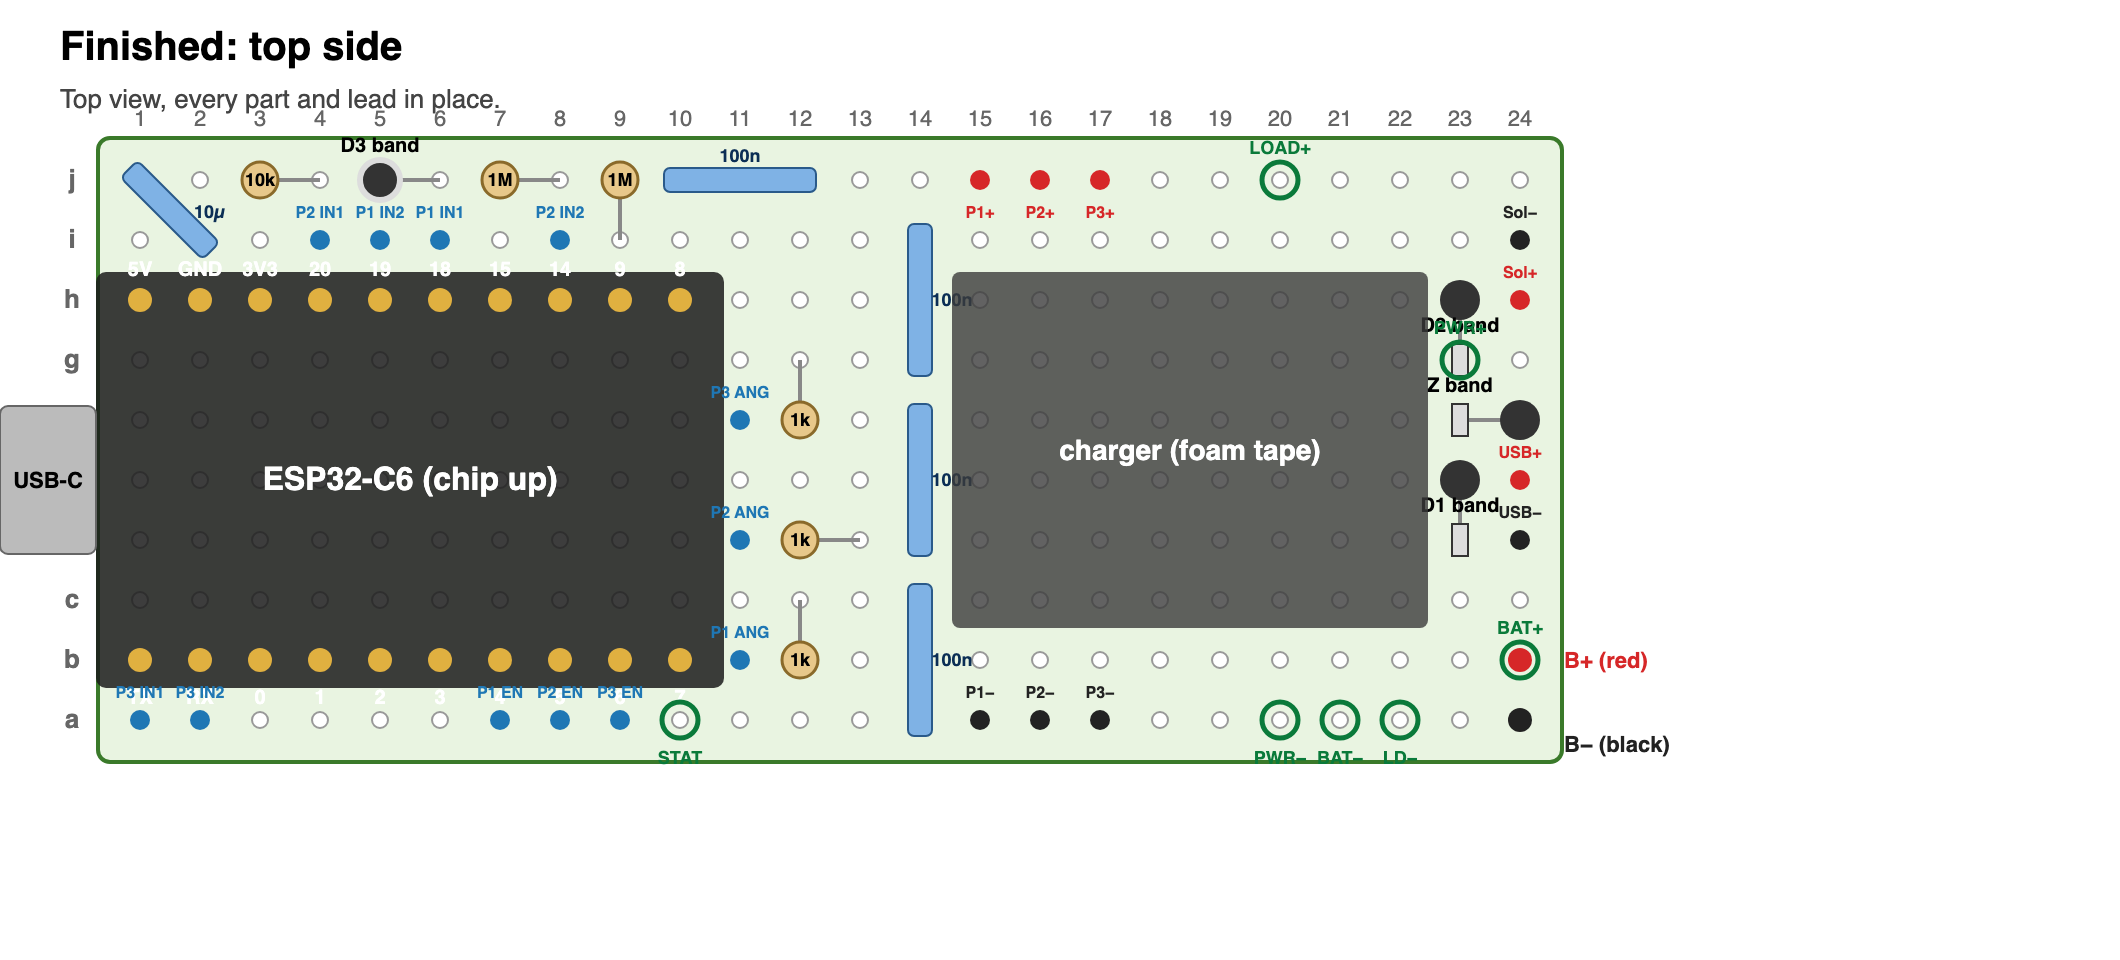
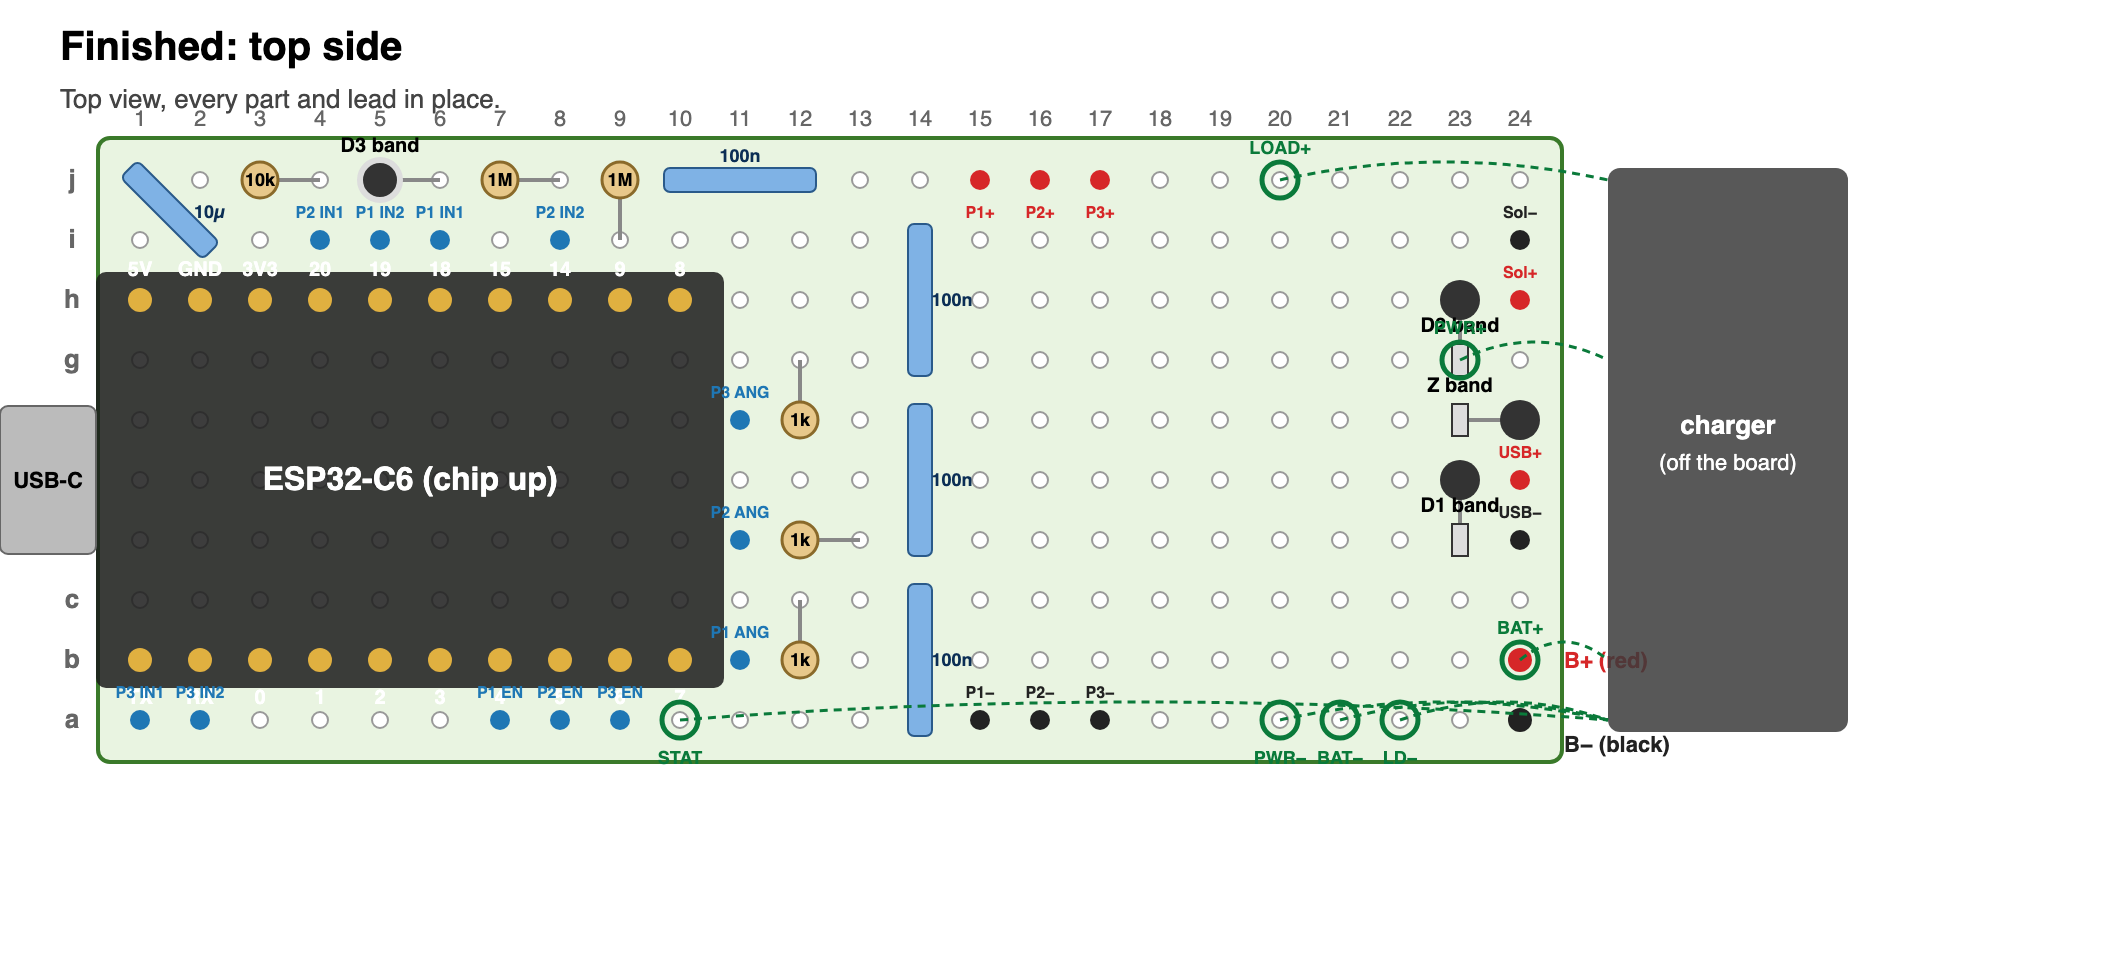
Dev board: charger moves off the board
The charger board is 30.5 x 31.5 mm (wider than the 25.4 mm perfboard) with a
16 x 26 mm bulk capacitor, so it sits beside the row-24 end on short wires. Same
landing holes, so the board wiring is unchanged; power pads use 22 AWG pairs.

Changed region(s): [[0.4358, 0.2812, 0.6849, 0.6562], [0.6226, 0.1562, 0.8717, 0.7812]]

diff --git a/tools/devboard_guide.py b/tools/devboard_guide.py
@@ -188,14 +188,18 @@ def charger_pads():
 
 
 def draw_charger(o):
-    cx0, cy0 = pos('c15')
-    cx1, cy1 = pos('h22')
-    o.append('<rect x="%.0f" y="%.0f" width="%.0f" height="%.0f" rx="4" fill="#3b3b3b" opacity="0.8"/>' % (
-        cx0 - 14, cy1 - 14, cx1 - cx0 + 28, cy0 - cy1 + 28))
-    o.append('<text x="%.0f" y="%.0f" font-size="14" fill="#fff" text-anchor="middle" font-weight="bold">charger (foam tape)</text>' % (
-        (cx0 + cx1) / 2, (cy0 + cy1) / 2 + 5))
+    """The charger sits off the board, past the row-24 end; its wires come in to the ringed holes."""
+    x0, _ = pos('a24')
+    _, ya = pos('a1')
+    _, yj = pos('j1')
+    o.append('<rect x="%.0f" y="%.0f" width="120" height="%.0f" rx="6" fill="#3b3b3b" opacity="0.85"/>' % (x0 + 44, yj - 6, ya - yj + 12))
+    o.append('<text x="%.0f" y="%.0f" font-size="13" fill="#fff" text-anchor="middle" font-weight="bold">charger</text>' % (x0 + 104, (ya + yj) / 2 - 8))
+    o.append('<text x="%.0f" y="%.0f" font-size="11" fill="#fff" text-anchor="middle">(off the board)</text>' % (x0 + 104, (ya + yj) / 2 + 10))
     for h, lab in charger_pads():
+        x, y = pos(h)
         ring(o, h, '#0a7a3a')
+        o.append('<path d="M%.0f %.0f Q%.0f %.0f %.0f %.0f" fill="none" stroke="#0a7a3a" stroke-width="1.5" stroke-dasharray="4,3"/>' % (
+            x, y, (x + x0 + 44) / 2, y - 18, x0 + 44, y))
         label(o, h, lab, dy=22 if h[0] == 'a' else -13, color='#0a7a3a', size=9)
 
 
@@ -329,15 +333,21 @@ step('batt', 'Battery pins (2 header pins)', 'top', [draw_batt],
      ['Mark b24 with a red "+" now: the red wire of the battery plug always goes on b24.'],
      """Snap 2 pins off a header strip and solder them in **a24 (−)** and **b24 (+)**, long side up. Mark **b24 "+"** in red.""",
      [('Battery pins', 'a24 (−), b24 (+)', 'red wire of the plug on b24')])
-step('charger', 'Charger: prepare, mount, wire its pads (7 wires)', 'top', [draw_charger],
-     'Top side. Charger on foam tape over c15–h22; short insulated wires from its pads into the ringed holes.',
+step('charger', 'Charger: prepare it, wire it in from off the board (7 wires)', 'top', [draw_charger],
+     'Top side. The charger (30.5 × 31.5 mm) sits OFF the board, past row 24; its wires come in to the ringed holes.',
      ['Where a hole already has a pin (b24, a10), push the wire in beside it or solder it to that pin underneath.'],
-     """1. On the bench first: remove the charger's fixed THERM resistor and solder the 10 kΩ NTC's two leads there (the NTC
-   gets taped to the cell later). If the charger came with a loose bulk capacitor, solder it across its LOAD pads
-   (**long leg / + to LOAD +**, stripe / − to LOAD −). Tin the pads.
-2. Stick it on with foam tape over **c15–h22**.
-3. Cut 7 short pieces of 30 AWG wire, strip ~3 mm, solder one end to each pad and push the other end through its hole
-   from the top. Solder them underneath.
+     """The charger board (30.5 × 31.5 mm) is wider than the perfboard, and its bulk capacitor is 16 mm across and 26 mm tall,
+so it sits **off the board**, beside the row-24 end, on wires about 6–8 cm long.
+
+1. On the bench first: remove the charger's fixed THERM resistor and solder the 10 kΩ NTC's two leads there (the NTC
+   gets taped to the cell later). Solder the bulk capacitor across its LOAD pads (**long leg / + to LOAD +**,
+   stripe / − to LOAD −). To make it lie on its side, bend both leads 90° about 2 mm from the body (hold the lead with
+   pliers at the body so the bend doesn't strain it). Tin the pads.
+2. **Power wires (they carry the battery and motor current): 3 pairs of the white 22 AWG two-conductor wire.**
+   PWR + / PWR −, BATT + / BATT −, LOAD + / LOAD −. Solder each pair to its two pads, then the other ends into the
+   holes in the table from the top. Keep + and − straight: mark the + conductor with a marker before you start.
+3. **STAT: one 30 AWG wire** from the STAT pad (STAT1 if there are two) to a10.
+4. Solder all 7 underneath. Nothing else goes in these holes except where noted.
 
 (Pad names assumed from the Adafruit-style board: check them against the real board before wiring.)""",
      [(pad, h, net) for pad, h, net in M.CHARGER])
@@ -452,14 +462,14 @@ def bom():
         ('Zener 6.2 V', 1, '3', 'zener kit'),
         ('Ceramic capacitor 100 nF (104)', count['100n'], '4', 'ceramic capacitor kit'),
         ('Ceramic capacitor 10 µF (106)', count['10µ'], '4', 'ceramic capacitor kit'),
-        ('MCP73871 charger board (+ its bulk capacitor)', 1, '6', 'Comimark MCP73871'),
+        ('MCP73871 charger board, 30.5 × 31.5 mm, off the board (+ its 16 × 26 mm bulk capacitor)', 1, '6', 'Comimark MCP73871'),
         ('NTC thermistor 10 kΩ', 1, '6', 'NTC 10-pack'),
-        ('Foam tape', '1 piece', '6', ''),
+        ('White 22 AWG two-conductor wire', '3 pairs × 6-8 cm', '6 (charger power)', 'solar extension wire'),
         ('RJ12 breakout board', 3, '7 (%d leads)' % len(PARTS['Port leads'].pins), 'RJ11/RJ12 breakout 4-pack'),
         ('USB-C breakout (Cermant)', 1, '7 (2 leads)', 'USB-C breakout 10-pack'),
         ('Solar lead (optional)', 1, '7 (2 leads)', 'solar panel + extension'),
-        ('30 AWG insulated wire', '%d pieces' % (len(wires_of('wire')) + len(charger_pads())),
-         '6 (%d), 8 (%d)' % (len(charger_pads()), len(wires_of('wire'))), '30 AWG silicone wire'),
+        ('30 AWG insulated wire', '%d pieces' % (len(wires_of('wire')) + 1),
+         '6 (1, STAT), 8 (%d)' % len(wires_of('wire')), '30 AWG silicone wire'),
         ('Bare wire or trimmed resistor legs', '%d bridges + %d rails' % (len(wires_of('bridge')), len(wires_of('rail'))), '9, 10',
          'tinned wire / leg offcuts'),
         ('Perfboard 3 × 7 cm (a–j × 1–24)', 1, 'all', 'perfboard kit'),

diff --git a/hardware/mechanical/fusion/ControllerV4/ControllerV4.py b/hardware/mechanical/fusion/ControllerV4/ControllerV4.py
@@ -113,12 +113,9 @@ def layout():
         ('ESP32-C6 USB-C', xc - 13 - 0.8, xc - 13 - 0.8 + 7.35, yc - 4.47, yc + 4.47, z0 + 1.0, z0 + 4.26),
         ('ESP32-C6 headers', X(0) - 1.27, X(9) + 1.27, Y(1) - 1.27, Y(1) + 1.27, t, z0),
         ('ESP32-C6 headers 2', X(0) - 1.27, X(9) + 1.27, Y(7) - 1.27, Y(7) + 1.27, t, z0)]))
-    # charger on 1 mm foam tape over rows 15-22, columns c-h
-    cx0, cy0 = (X(14) + X(21)) / 2 - 9.8 - 0.25, (Y(2) + Y(7)) / 2 - 9.15
-    parts.append(Part('MCP73871', [], [('MCP73871 PCB', cx0, cx0 + 19.6, cy0, cy0 + 18.3, t + 1.0, t + 2.6),
-                                       ('MCP73871 parts', cx0 + 6, cx0 + 14, cy0 + 4, cy0 + 13, t + 2.6, t + 3.5),
-                                       ('MCP73871 tape', cx0 + 0.5, cx0 + 19.1, cy0 + 0.5, cy0 + 17.8, t, t + 1.0)],
-                      note='foam tape; its pads are wired to the board (see the wiring list)'))
+    # charger: its board is 30.5 x 31.5 mm (wider than the 25.4 mm perfboard) with a 16 x 26 mm bulk capacitor, so it
+    # sits OFF the perfboard; its pads come in on short wires (power pairs in 22 AWG). The box needs a bay for it.
+    parts.append(Part('MCP73871', [], [], note='off the board (30.5 x 31.5 mm + 16 x 26 mm capacitor); wired in, see the charger table'))
 
     def upright(name, h_body, h_lead, d=2.3, h=8.0, labels=('', '')):
         """Resistor / diode standing up: body over the first hole, the hairpin lead in the second."""
@@ -213,13 +210,13 @@ WIRES = [
 WIRES = [w for w in WIRES if not w[2].startswith('NO')] + [('i24', 'c24', 'wire: solar - -> GND link (straight along row 24)')]
 
 CHARGER = [  # charger pad -> board
-    ('PWR + (input)', 'g23', 'PWR node: D1 + D2 cathodes, zener'),
+    ('PWR + (input)', 'g23', 'PWR node: D1 + D2 cathodes, zener (22 AWG pair with PWR -)'),
     ('PWR - / GND', 'a20', 'GND rail'),
-    ('BATT +', 'b24', 'battery pin B+ (the cell reaches the VBAT rail only through the charger)'),
+    ('BATT +', 'b24', 'battery pin B+, 22 AWG pair with BATT - (the cell reaches the VBAT rail only through the charger)'),
     ('BATT -', 'a21', 'GND rail'),
-    ('LOAD + (output)', 'j20', 'VBAT rail'),
+    ('LOAD + (output)', 'j20', 'VBAT rail (22 AWG pair with LOAD -)'),
     ('LOAD -', 'a22', 'GND rail'),
-    ('STAT', 'a10', 'GPIO7 (pulled up by R stat)'),
+    ('STAT', 'a10', 'GPIO7 (pulled up by R stat); 30 AWG'),
     ('THERM', '(NTC)', 'remove the board\'s THERM resistor; NTC from THERM to GND, taped to the cell'),
 ]
 
@@ -235,7 +232,7 @@ def wiring_md():
           'The bulk electrolytic that comes with the charger is soldered onto the charger board itself (+ to its LOAD side).', '',
           'ESP32-C6: chip side up, header pins in its **inner** holes, into **b1-b10** (TX16, RX17, 0, 1, 2, 3, 4, 5, 6, 7) and',
           '**h1-h10** (5V, GND, 3V3, 20, 19, 18, 15, 14, 9, 8), USB-C overhanging row 1 (confirmed against the board).',
-          'Leave its inner pads (12, 13, 21, 22, 23) and BAT pad unconnected. Charger: foam tape over **c15-h22**.', '',
+          'Leave its inner pads (12, 13, 21, 22, 23) and BAT pad unconnected. Charger: off the board, wired in (see the charger table).', '',
           'D3 (j5-j6) drops ~0.3 V, so the ESP browns out near 3.4-3.5 V on the cell (last ~10-15 %). Optional: 2 header',
           'pins + jumper at j5-j6 instead of D3 (zero drop; pull the jumper before plugging USB into the ESP).', '',
           '## Port leads (from the RJ12 boards)', '', '| Lead | Hole | Lead | Hole | Lead | Hole |', '|---|---|---|---|---|---|']

diff --git a/docs/dev-board-build.md b/docs/dev-board-build.md
@@ -23,13 +23,13 @@ step does one kind of part, and in its picture that step is in colour while ever
 | Zener 6.2 V | 1 | 3 | zener kit |
 | Ceramic capacitor 100 nF (104) | 4 | 4 | ceramic capacitor kit |
 | Ceramic capacitor 10 µF (106) | 1 | 4 | ceramic capacitor kit |
-| MCP73871 charger board (+ its bulk capacitor) | 1 | 6 | Comimark MCP73871 |
+| MCP73871 charger board, 30.5 × 31.5 mm, off the board (+ its 16 × 26 mm bulk capacitor) | 1 | 6 | Comimark MCP73871 |
 | NTC thermistor 10 kΩ | 1 | 6 | NTC 10-pack |
-| Foam tape | 1 piece | 6 |  |
+| White 22 AWG two-conductor wire | 3 pairs × 6-8 cm | 6 (charger power) | solar extension wire |
 | RJ12 breakout board | 3 | 7 (18 leads) | RJ11/RJ12 breakout 4-pack |
 | USB-C breakout (Cermant) | 1 | 7 (2 leads) | USB-C breakout 10-pack |
 | Solar lead (optional) | 1 | 7 (2 leads) | solar panel + extension |
-| 30 AWG insulated wire | 22 pieces | 6 (7), 8 (15) | 30 AWG silicone wire |
+| 30 AWG insulated wire | 16 pieces | 6 (1, STAT), 8 (15) | 30 AWG silicone wire |
 | Bare wire or trimmed resistor legs | 35 bridges + 2 rails | 9, 10 | tinned wire / leg offcuts |
 | Perfboard 3 × 7 cm (a–j × 1–24) | 1 | all | perfboard kit |
 | 18650 cell with JST-XH plug | 1 | 11 | 18650 cell |
@@ -128,28 +128,34 @@ Snap 2 pins off a header strip and solder them in **a24 (−)** and **b24 (+)**,
 |---|---|---|
 | Battery pins | a24 (−), b24 (+) | red wire of the plug on b24 |
 
-## Step 6: Charger: prepare, mount, wire its pads (7 wires)
+## Step 6: Charger: prepare it, wire it in from off the board (7 wires)
 
 ![step 6](renders/build-step-06.png)
 
+The charger board (30.5 × 31.5 mm) is wider than the perfboard, and its bulk capacitor is 16 mm across and 26 mm tall,
+so it sits **off the board**, beside the row-24 end, on wires about 6–8 cm long.
+
 1. On the bench first: remove the charger's fixed THERM resistor and solder the 10 kΩ NTC's two leads there (the NTC
-   gets taped to the cell later). If the charger came with a loose bulk capacitor, solder it across its LOAD pads
-   (**long leg / + to LOAD +**, stripe / − to LOAD −). Tin the pads.
-2. Stick it on with foam tape over **c15–h22**.
-3. Cut 7 short pieces of 30 AWG wire, strip ~3 mm, solder one end to each pad and push the other end through its hole
-   from the top. Solder them underneath.
+   gets taped to the cell later). Solder the bulk capacitor across its LOAD pads (**long leg / + to LOAD +**,
+   stripe / − to LOAD −). To make it lie on its side, bend both leads 90° about 2 mm from the body (hold the lead with
+   pliers at the body so the bend doesn't strain it). Tin the pads.
+2. **Power wires (they carry the battery and motor current): 3 pairs of the white 22 AWG two-conductor wire.**
+   PWR + / PWR −, BATT + / BATT −, LOAD + / LOAD −. Solder each pair to its two pads, then the other ends into the
+   holes in the table from the top. Keep + and − straight: mark the + conductor with a marker before you start.
+3. **STAT: one 30 AWG wire** from the STAT pad (STAT1 if there are two) to a10.
+4. Solder all 7 underneath. Nothing else goes in these holes except where noted.
 
 (Pad names assumed from the Adafruit-style board: check them against the real board before wiring.)
 
 | Charger pad | Board hole | Net |
 |---|---|---|
-| PWR + (input) | g23 | PWR node: D1 + D2 cathodes, zener |
+| PWR + (input) | g23 | PWR node: D1 + D2 cathodes, zener (22 AWG pair with PWR -) |
 | PWR - / GND | a20 | GND rail |
-| BATT + | b24 | battery pin B+ (the cell reaches the VBAT rail only through the charger) |
+| BATT + | b24 | battery pin B+, 22 AWG pair with BATT - (the cell reaches the VBAT rail only through the charger) |
 | BATT - | a21 | GND rail |
-| LOAD + (output) | j20 | VBAT rail |
+| LOAD + (output) | j20 | VBAT rail (22 AWG pair with LOAD -) |
 | LOAD - | a22 | GND rail |
-| STAT | a10 | GPIO7 (pulled up by R stat) |
+| STAT | a10 | GPIO7 (pulled up by R stat); 30 AWG |
 | THERM | (NTC) | remove the board's THERM resistor; NTC from THERM to GND, taped to the cell |
 
 ## Step 7: Leads from the RJ12, USB-C and solar boards (22)

diff --git a/docs/renders/ctrl-v4-wiring.md b/docs/renders/ctrl-v4-wiring.md
@@ -30,7 +30,7 @@ The bulk electrolytic that comes with the charger is soldered onto the charger b
 
 ESP32-C6: chip side up, header pins in its **inner** holes, into **b1-b10** (TX16, RX17, 0, 1, 2, 3, 4, 5, 6, 7) and
 **h1-h10** (5V, GND, 3V3, 20, 19, 18, 15, 14, 9, 8), USB-C overhanging row 1 (confirmed against the board).
-Leave its inner pads (12, 13, 21, 22, 23) and BAT pad unconnected. Charger: foam tape over **c15-h22**.
+Leave its inner pads (12, 13, 21, 22, 23) and BAT pad unconnected. Charger: off the board, wired in (see the charger table).
 
 D3 (j5-j6) drops ~0.3 V, so the ESP browns out near 3.4-3.5 V on the cell (last ~10-15 %). Optional: 2 header
 pins + jumper at j5-j6 instead of D3 (zero drop; pull the jumper before plugging USB into the ESP).
@@ -109,11 +109,11 @@ RJ12 pin -> signal: 1 VBAT, 2 IN1, 3 GND, 4 ANG, 5 EN, 6 IN2. Port 1 = room side
 
 | Pad | Board hole | Net |
 |---|---|---|
-| PWR + (input) | g23 | PWR node: D1 + D2 cathodes, zener |
+| PWR + (input) | g23 | PWR node: D1 + D2 cathodes, zener (22 AWG pair with PWR -) |
 | PWR - / GND | a20 | GND rail |
-| BATT + | b24 | battery pin B+ (the cell reaches the VBAT rail only through the charger) |
+| BATT + | b24 | battery pin B+, 22 AWG pair with BATT - (the cell reaches the VBAT rail only through the charger) |
 | BATT - | a21 | GND rail |
-| LOAD + (output) | j20 | VBAT rail |
+| LOAD + (output) | j20 | VBAT rail (22 AWG pair with LOAD -) |
 | LOAD - | a22 | GND rail |
-| STAT | a10 | GPIO7 (pulled up by R stat) |
+| STAT | a10 | GPIO7 (pulled up by R stat); 30 AWG |
 | THERM | (NTC) | remove the board's THERM resistor; NTC from THERM to GND, taped to the cell |
